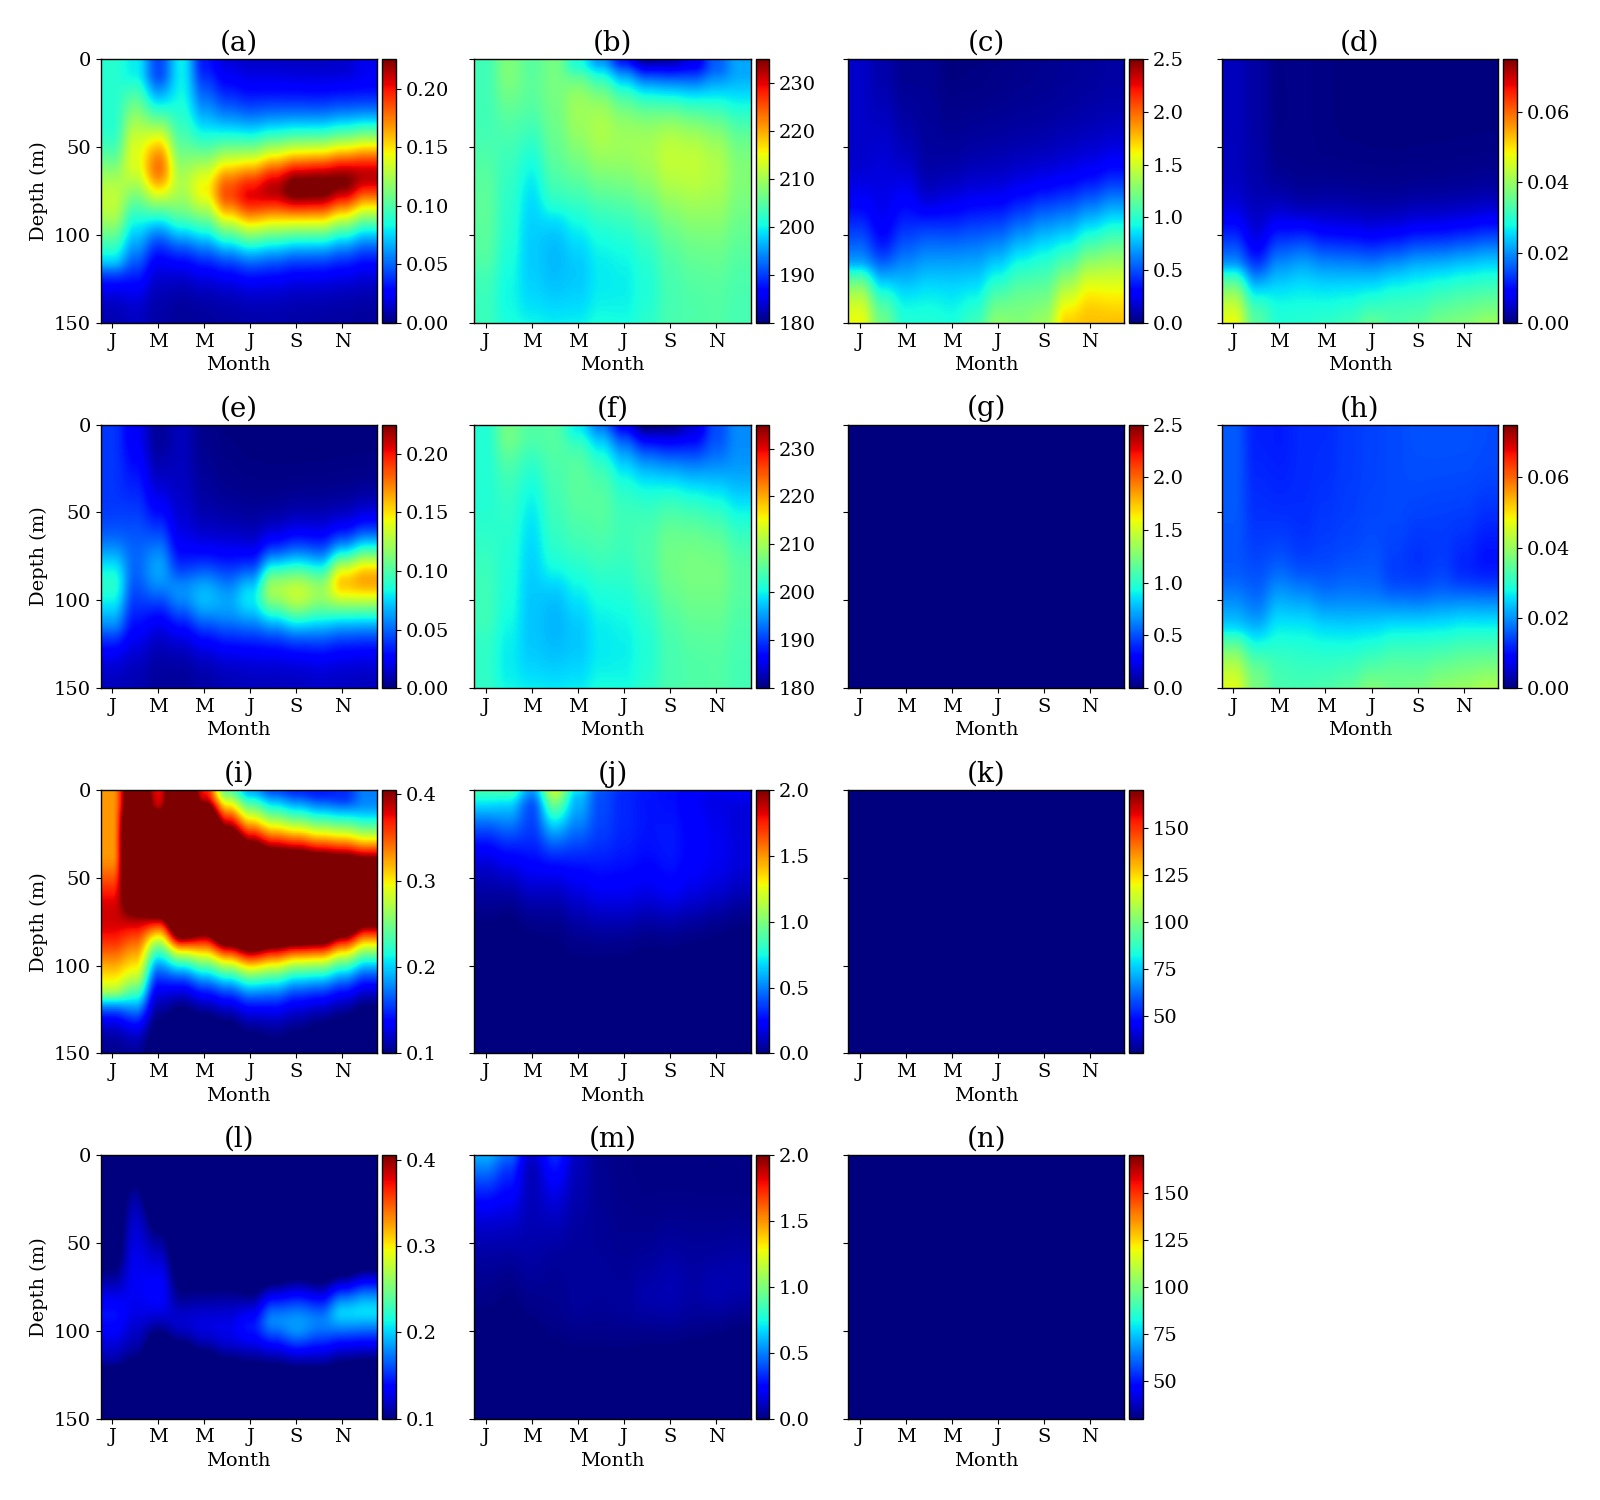
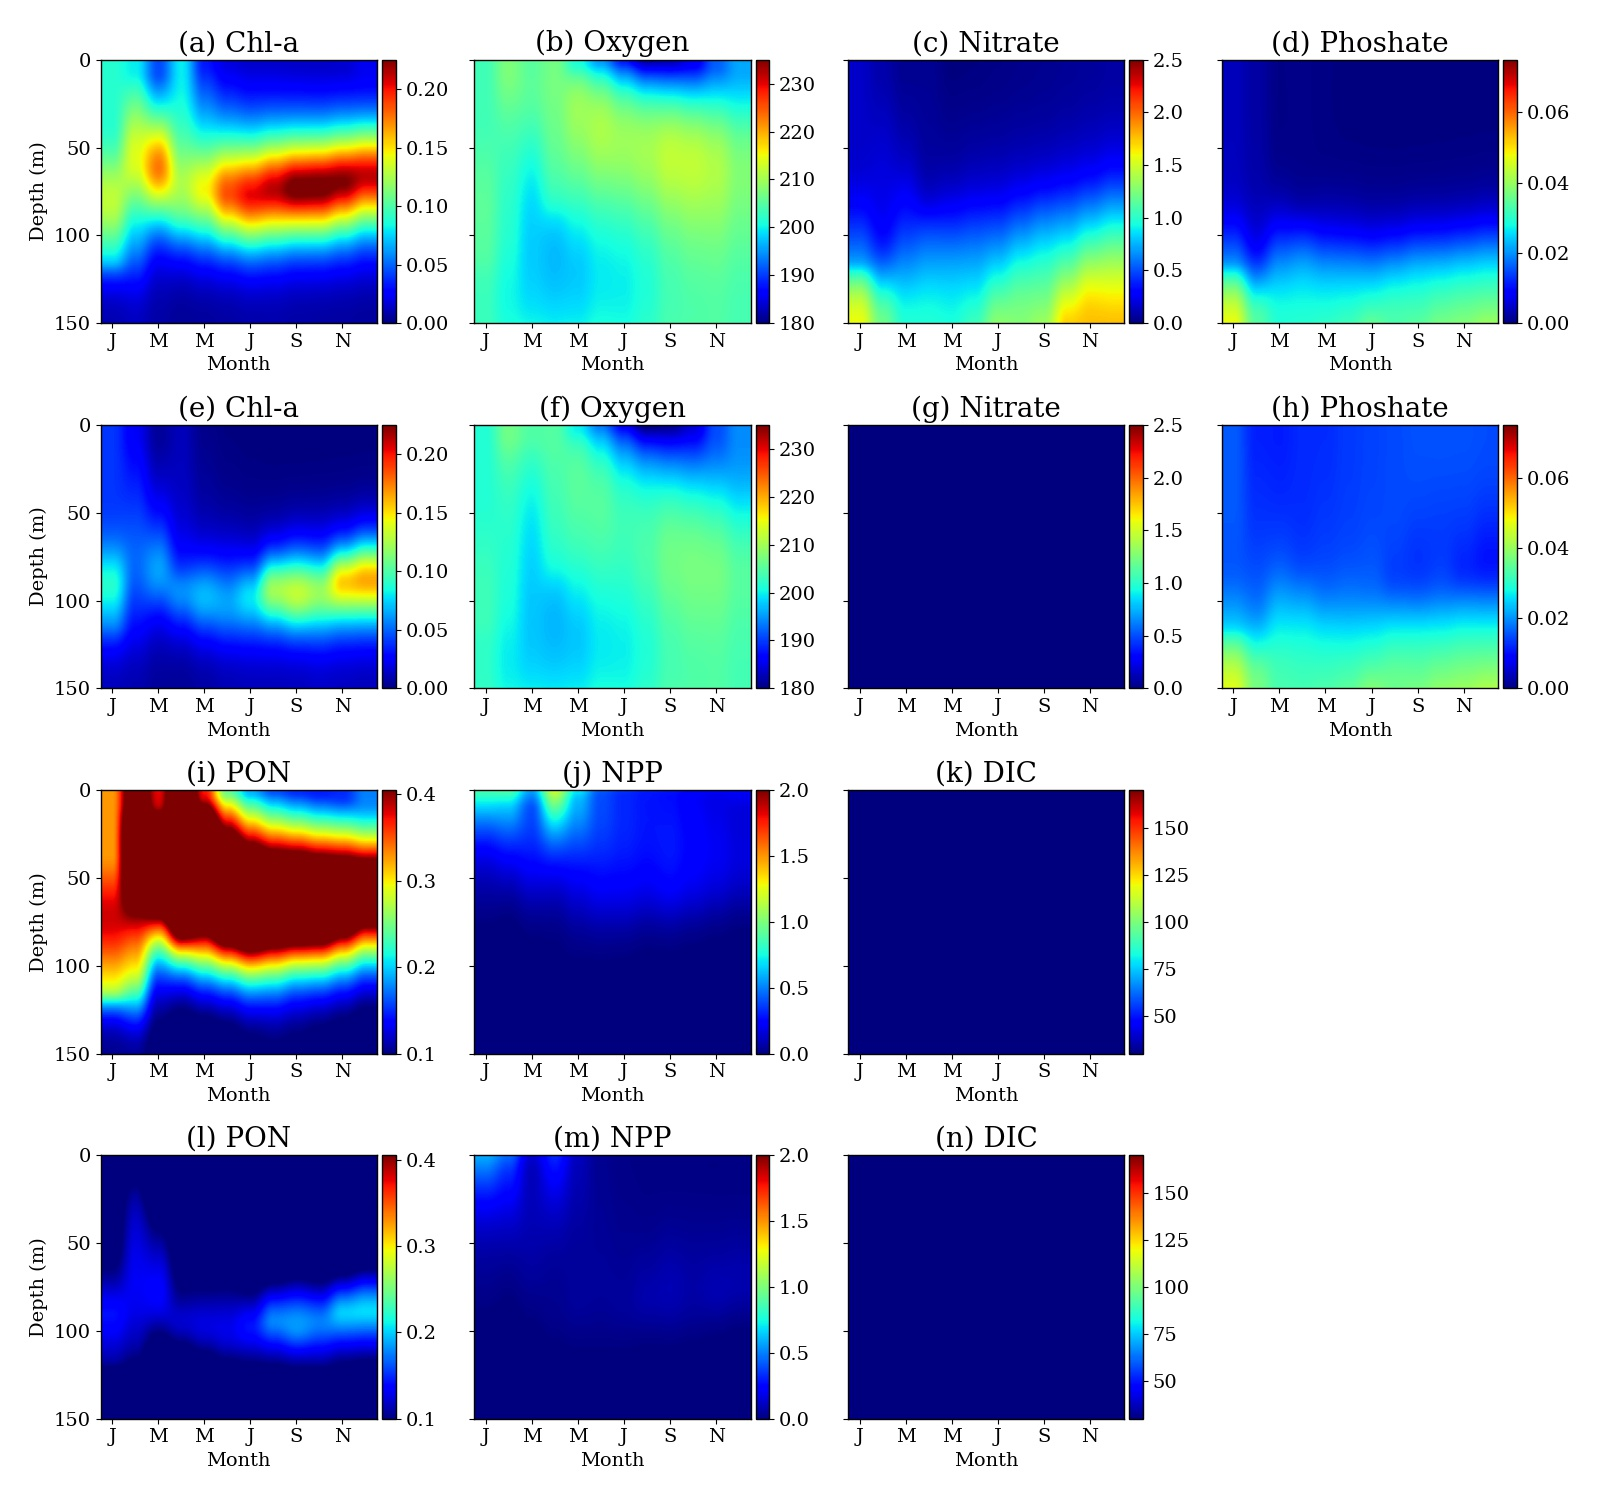
additional structure for field plots

diff --git a/plots/scripts/functions.py b/plots/scripts/functions.py
@@ -202,7 +202,7 @@ def plot_fields(check,comp,model_name):
     # Titles
     title_check = ['(a) Chl-a','(b) Oxygen','(c) Nitrate','(d) Phoshate','(e) PON','(f) NPP','(g) DIC']
     title_comp = ['(h) Chl-a','(i) Oxygen','(j) Nitrate','(k) Phoshate','(l) PON','(m) NPP','(n) DIC']
-    title = ['(a)','(b)','(c)','(d)','(e)','(f)','(g)','(h)','(i)','(j)','(k)','(l)','(m)','(n)']
+    title = ['(a) Chl-a','(b) Oxygen','(c) Nitrate','(d) Phoshate','(e) Chl-a','(f) Oxygen','(g) Nitrate','(h) Phoshate','(i) PON','(j) NPP','(k) DIC','(l) PON','(m) NPP','(n) DIC']
     # ---------------------------------------------------------------------------------------------------------------------------------
     # Colorbar Limits
     clow   = [0,180,0,0,0.1,0,30]
@@ -299,5 +299,51 @@ def plot_fields(check,comp,model_name):
     plt.tight_layout(h_pad=0.75, w_pad=0.75)
 
     fig_name = 'plots/figures/' + model_name + '_fields_2.jpg'
+    plt.savefig(fig_name)
+
+    # ---------------------------------------------------------------------------------------------------------------------------------
+    # Field Plots - Style 3    
+    fig,axes = plt.subplots(4,4,figsize=[16,15])
+    for i in range(0,7):
+        plt.subplot(4,4,i+1)
+        plt.imshow(check[i,:,:],extent=[0,12,150,0],aspect='auto',cmap='jet')
+        ax = plt.gca()
+        plt.xticks([0.5,2.5,4.5,6.5,8.5,10.5], ['J','M','M','J','S','N'])
+        plt.xlabel('Month',fontsize=14)
+        if i%4 == 0:
+            plt.yticks([0,50,100,150])
+            plt.ylabel('Depth (m)',fontsize=14)
+        else:
+            plt.yticks([0,50,100,150],[])
+        plt.title(title_check[i],fontsize=20)
+        plt.clim(clow[i],chigh[i])
+        divider = make_axes_locatable(ax)
+        cax = divider.append_axes("right", size="5%", pad=0.05)
+        plt.colorbar(cax=cax)
+
+    for i in range(7,14):
+        plt.subplot(4,4,i+2)
+        plt.imshow(comp[i-7,:,:],extent=[0,12,150,0],aspect='auto',cmap='jet')
+        ax = plt.gca()
+        plt.xticks([0.5,2.5,4.5,6.5,8.5,10.5], ['J','M','M','J','S','N'])
+        plt.xlabel('Month',fontsize=14)
+        plt.yticks([0,50,100,150])
+        if i%4 == 3:
+            plt.yticks([0,50,100,150])
+            plt.ylabel('Depth (m)',fontsize=14)
+        else:
+            plt.yticks([0,50,100,150],[])
+        plt.title(title_comp[i-7],fontsize=20)
+        plt.clim(clow[i-7],chigh[i-7]) 
+        divider = make_axes_locatable(ax)
+        cax = divider.append_axes("right", size="5%", pad=0.05)
+        plt.colorbar(cax=cax)   
+
+    fig.delaxes(axes[1,3])
+    fig.delaxes(axes[3,3])
+
+    plt.tight_layout(h_pad=0.75, w_pad=0.75)
+
+    fig_name = 'plots/figures/' + model_name + '_fields_3.jpg'
     plt.savefig(fig_name)
 
